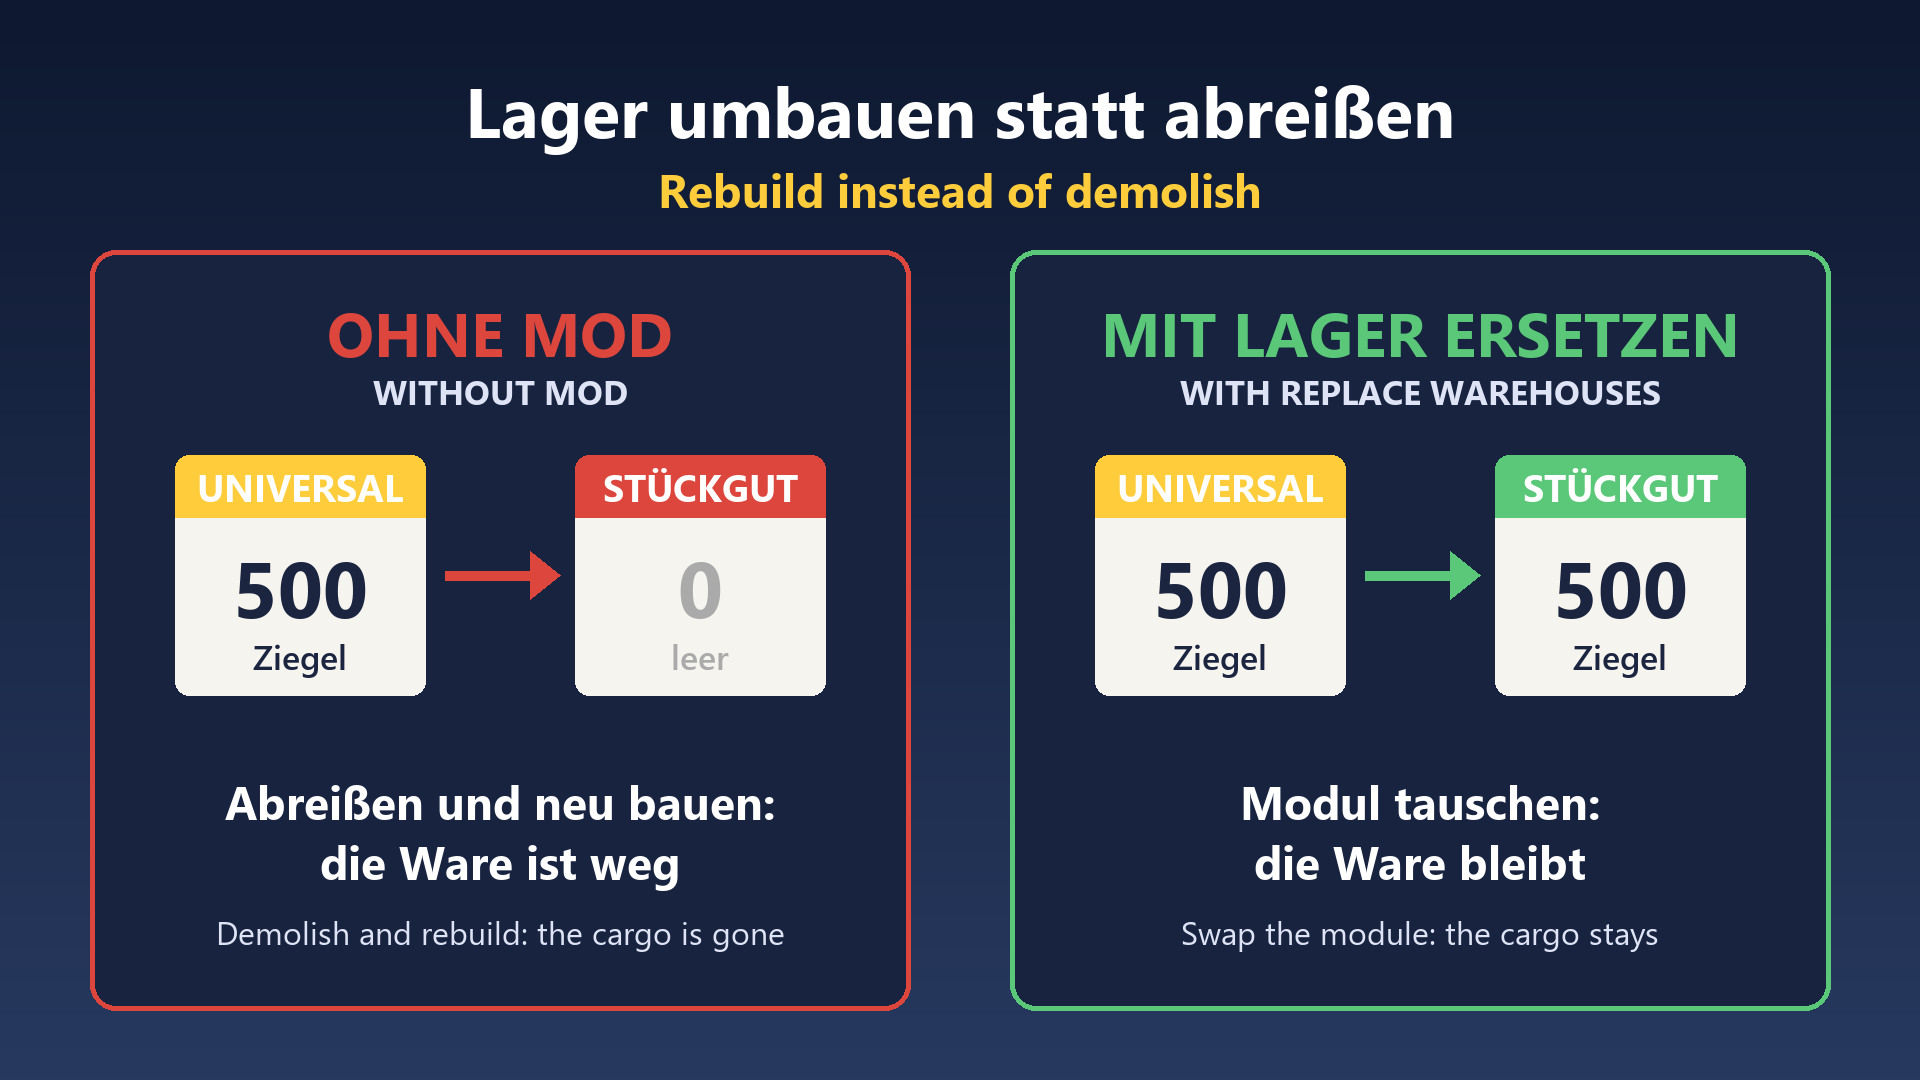
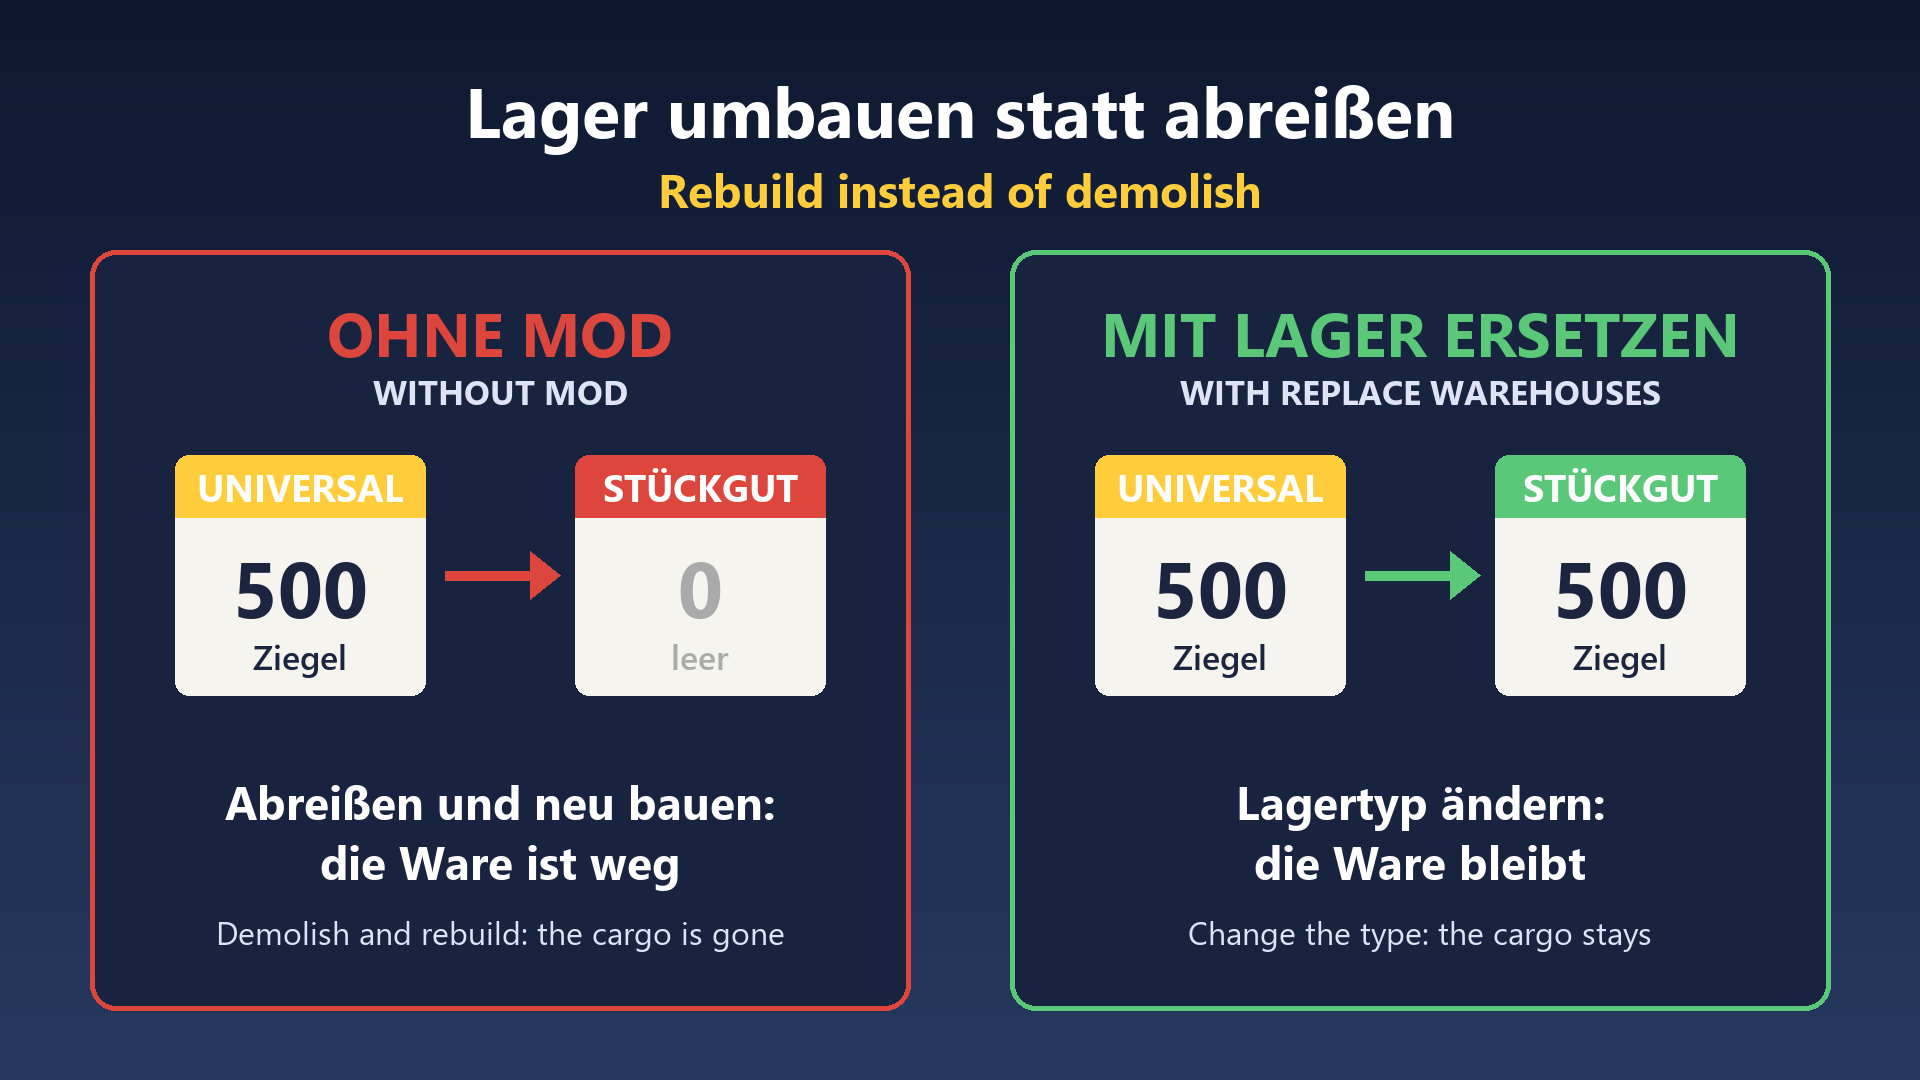
Rebuild costs the normal warehouse price, texts speak of warehouses instead of modules

Changed region(s): [[0.625, 0.8556, 0.875, 0.8861], [0.625, 0.7333, 0.8438, 0.7639]]

diff --git a/nalathan_lager_ersetzen/_metadata/description.html b/nalathan_lager_ersetzen/_metadata/description.html
@@ -1,35 +1,38 @@
 <h2>Replace Warehouses</h2>
-<p>Change the type of a warehouse module right where it stands, without demolishing it and without losing the stored cargo.</p>
+<p>Change the type of a warehouse right where it stands, without demolishing it and without losing the stored cargo.</p>
 <ul>
-<li>New card "Rebuild warehouse" in the warehouse window: pick a new type per module (universal, goods, bulk, liquid, flatbed) and click "Rebuild"</li>
-<li>No collision, position and connections stay the same, cargo that fits the new module stays in the warehouse</li>
-<li>Cargo that no longer fits: the game pauses and a window shows which modules you need, for example "1x Goods module: Bricks 200"</li>
-<li>Discard the cargo, or build a suitable warehouse or module: the build menu opens, a small info window stays visible and the cargo is stored automatically after building</li>
-<li>Also catches cargo lost when you remove a module or demolish a whole warehouse the normal way</li>
+<li>New card "Rebuild warehouse" in the warehouse window: pick the new type (universal, goods, bulk, liquid, flatbed) and click "Rebuild"</li>
+<li>The rebuild costs the normal price of the new warehouse, shown on the button and booked as warehouse construction</li>
+<li>No collision, position and connections stay the same, cargo that fits the new type stays in the warehouse</li>
+<li>Cargo that no longer fits: the game pauses and a window shows which warehouses you need, for example "1x Goods warehouse: Bricks 200"</li>
+<li>Discard the cargo, or build a suitable warehouse: the build menu opens, a small info window stays visible and the cargo is stored automatically after building</li>
+<li>Also catches cargo lost when you demolish a warehouse the normal way</li>
 </ul>
-<p>Good to know: cargo can only be put back into specialised modules. The mod sets that module to the cargo type for you, you can reset it in the warehouse window at any time.</p>
+<p>Good to know: cargo can only be put back into specialised warehouses. The mod sets that warehouse to the cargo type for you, you can reset it in the warehouse window at any time.</p>
 
 <h2>Lager Ersetzen</h2>
-<p>Den Typ eines Lagermoduls direkt an Ort und Stelle ändern, ohne Abriss und ohne die gelagerte Ware zu verlieren.</p>
+<p>Den Typ eines Lagers direkt an Ort und Stelle ändern, ohne Abriss und ohne die gelagerte Ware zu verlieren.</p>
 <ul>
-<li>Neue Karte „Lager umbauen“ im Lagerfenster: pro Modul einen neuen Typ wählen (Universal, Stückgut, Schüttgut, Flüssig, Flachwagen) und „Umbauen“ klicken</li>
-<li>Keine Kollision, Standort und Anschlüsse bleiben gleich, Ware, die ins neue Modul passt, bleibt im Lager</li>
-<li>Ware, die nicht mehr passt: das Spiel pausiert und ein Fenster zeigt, welche Module nötig sind, zum Beispiel „1x Stückgut Modul: Ziegel 200“</li>
-<li>Ware verwerfen oder ein passendes Lager oder Modul bauen: das Baumenü öffnet sich, ein kleines Infofenster bleibt sichtbar und die Ware wird nach dem Bau automatisch eingelagert</li>
-<li>Fängt auch Ware auf, die beim normalen Entfernen eines Moduls oder beim Abriss eines ganzen Lagers verloren ginge</li>
+<li>Neue Karte „Lager umbauen“ im Lagerfenster: den neuen Typ wählen (Universal, Stückgut, Schüttgut, Flüssig, Flachwagen) und „Umbauen“ klicken</li>
+<li>Der Umbau kostet den normalen Preis des neuen Lagers, er steht auf dem Knopf und wird als Lagerbau verbucht</li>
+<li>Keine Kollision, Standort und Anschlüsse bleiben gleich, Ware, die zum neuen Typ passt, bleibt im Lager</li>
+<li>Ware, die nicht mehr passt: das Spiel pausiert und ein Fenster zeigt, welche Lager nötig sind, zum Beispiel „1x Stückgut Lager: Ziegel 200“</li>
+<li>Ware verwerfen oder ein passendes Lager bauen: das Baumenü öffnet sich, ein kleines Infofenster bleibt sichtbar und die Ware wird nach dem Bau automatisch eingelagert</li>
+<li>Fängt auch Ware auf, die beim normalen Abriss eines Lagers verloren ginge</li>
 </ul>
-<p>Gut zu wissen: Ware kann nur in Spezialmodule zurückgelegt werden. Der Mod legt dieses Modul dafür auf die Warenart fest, die Festlegung lässt sich im Lagerfenster jederzeit wieder aufheben.</p>
+<p>Gut zu wissen: Ware kann nur in Speziallager zurückgelegt werden. Der Mod legt dieses Lager dafür auf die Warenart fest, die Festlegung lässt sich im Lagerfenster jederzeit wieder aufheben.</p>
 
 <h2>Remplacer Les Entrepôts</h2>
-<p>Changez le type d'un module d'entrepôt sur place, sans démolition et sans perdre les marchandises stockées.</p>
+<p>Changez le type d'un entrepôt sur place, sans démolition et sans perdre les marchandises stockées.</p>
 <ul>
-<li>Nouvelle carte « Transformer l'entrepôt » dans la fenêtre de l'entrepôt : choisissez un nouveau type par module (universel, marchandises, vrac, liquide, plateau) et cliquez sur « Transformer »</li>
+<li>Nouvelle carte « Transformer l'entrepôt » dans la fenêtre de l'entrepôt : choisissez le nouveau type (universel, marchandises, vrac, liquide, plateau) et cliquez sur « Transformer »</li>
+<li>La transformation coûte le prix normal du nouvel entrepôt, affiché sur le bouton et comptabilisé comme construction d'entrepôt</li>
 <li>Aucune collision, l'emplacement et les raccordements restent identiques, les marchandises compatibles restent dans l'entrepôt</li>
-<li>Marchandises qui ne rentrent plus : le jeu se met en pause et une fenêtre indique les modules nécessaires, par exemple « 1x module Marchandises : Briques 200 »</li>
-<li>Jetez les marchandises ou construisez un entrepôt ou module adapté : le menu de construction s'ouvre, une petite fenêtre d'information reste visible et les marchandises sont stockées automatiquement après la construction</li>
-<li>Récupère aussi les marchandises perdues lors du retrait normal d'un module ou de la démolition d'un entrepôt entier</li>
+<li>Marchandises qui ne rentrent plus : le jeu se met en pause et une fenêtre indique les entrepôts nécessaires, par exemple « 1x entrepôt Marchandises : Briques 200 »</li>
+<li>Jetez les marchandises ou construisez un entrepôt adapté : le menu de construction s'ouvre, une petite fenêtre d'information reste visible et les marchandises sont stockées automatiquement après la construction</li>
+<li>Récupère aussi les marchandises perdues lors de la démolition normale d'un entrepôt</li>
 </ul>
-<p>Bon à savoir : les marchandises ne peuvent être replacées que dans des modules spécialisés. Le mod fixe ce module sur le type de marchandise, vous pouvez annuler ce réglage à tout moment dans la fenêtre de l'entrepôt.</p>
+<p>Bon à savoir : les marchandises ne peuvent être replacées que dans des entrepôts spécialisés. Le mod fixe cet entrepôt sur le type de marchandise, vous pouvez annuler ce réglage à tout moment dans la fenêtre de l'entrepôt.</p>
 
 <h2>Bug Reports / Fehlermeldungen / Signaler un bug</h2>
 <p>GitHub: https://github.com/Nalathan01/TF3_ReplaceWarehouses/issues</p>

diff --git a/README.md b/README.md
@@ -1,20 +1,21 @@
 # Replace Warehouses
 
-In Transport Fever 3 you cannot place a specialised warehouse on top of an existing one, the game reports a collision. Demolishing the old warehouse first throws away everything stored in it. Replace Warehouses lets you change the type of a warehouse module right where it stands and keeps the cargo.
+In Transport Fever 3 you cannot place a specialised warehouse on top of an existing one, the game reports a collision. Demolishing the old warehouse first throws away everything stored in it. Replace Warehouses lets you change the type of a warehouse right where it stands and keeps the cargo.
 
 ## Features
 
-- New card "Rebuild warehouse" in the warehouse window: pick a new type per module (universal, goods, bulk, liquid, flatbed) and click "Rebuild"
-- The module is swapped in its slot: no collision, position and connections stay the same, cargo that fits the new module stays in the warehouse
-- Cargo that no longer fits: the game pauses and a window lists the modules you need, for example "1x Goods module: Bricks 200"
-- Discard the cargo, or build a suitable warehouse or module: the build menu opens, a small info window stays visible and the cargo is stored automatically after building, then the game continues
-- Also catches cargo lost when a module is removed or a whole warehouse is demolished the normal way
+- New card "Rebuild warehouse" in the warehouse window: pick the new type (universal, goods, bulk, liquid, flatbed) and click "Rebuild"
+- No collision, position and connections stay the same, cargo that fits the new type stays in the warehouse
+- The rebuild costs the normal price of the new warehouse, shown on the button and booked as warehouse construction
+- Cargo that no longer fits: the game pauses and a window lists the warehouses you need, for example "1x Goods warehouse: Bricks 200"
+- Discard the cargo, or build a suitable warehouse: the build menu opens, a small info window stays visible and the cargo is stored automatically after building, then the game continues
+- Also catches cargo lost when a warehouse is demolished the normal way
 - Waiting cargo is saved with the savegame
 - German, English and French
 
 ## Good to know
 
-Cargo can only be put back into specialised modules, a universal module cannot take back a specific cargo type. The mod sets the receiving module to that cargo type, you can reset it in the warehouse window at any time.
+Cargo can only be put back into specialised warehouses, a universal warehouse cannot take back a specific cargo type. The mod sets the receiving warehouse to that cargo type, you can reset it in the warehouse window at any time.
 
 ## Installation
 
